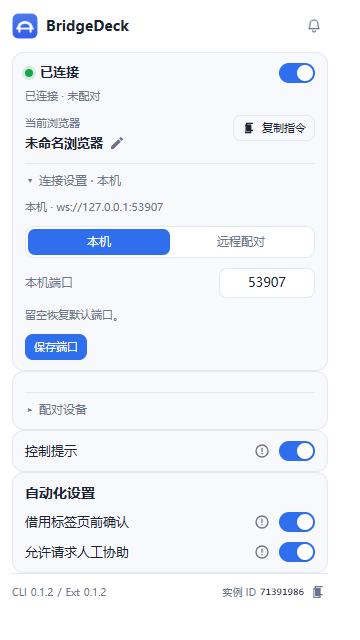
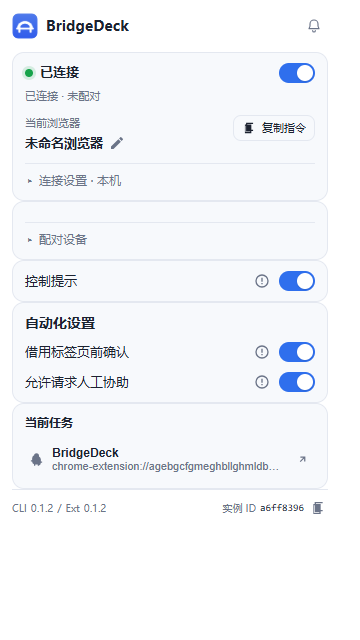
ui: collapse connection settings by default

diff --git a/extension/ui/popup.html b/extension/ui/popup.html
@@ -141,7 +141,7 @@
       </button>
     </div>
 
-    <details class="settings" id="connSettings" open>
+    <details class="settings" id="connSettings">
       <summary>连接设置<span id="connMode" class="muted">· 本机</span></summary>
       <div class="settings-body">
         <p id="daemonInfo" class="hint" style="margin:0">本机 · 未连接</p>
